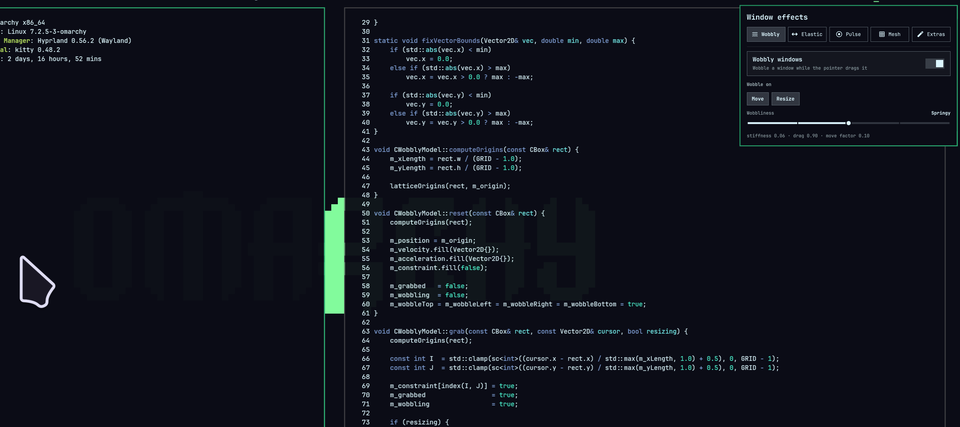
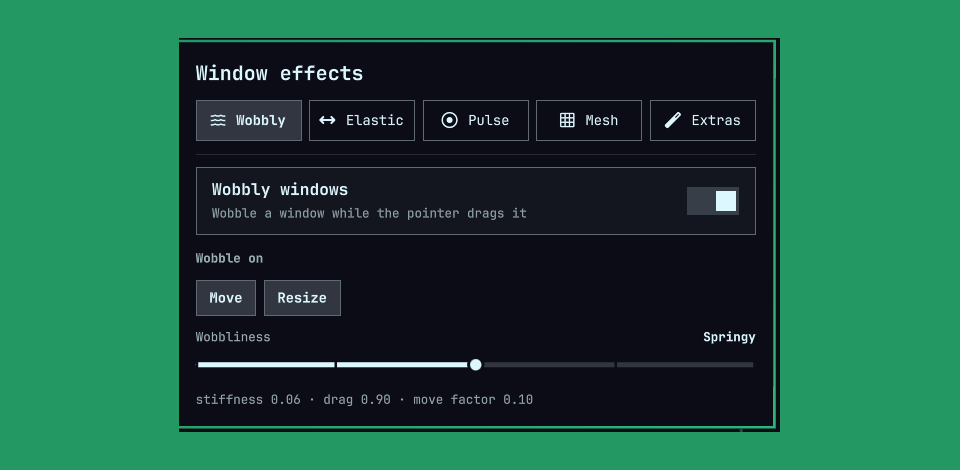
A recording in the README, the panel as the listing preview
docs/demo.gif is a 35-second take at 1280 px and 15 fps: windows stretching
as the layout swaps them, a wobbly drag, and the cursor growing under a
shake. Just under the size GitHub renders inline. The marketplace preview
goes back to the settings panel, at 1:1 on a 960 px canvas.

diff --git a/README.md b/README.md
@@ -20,9 +20,9 @@ plugin. Three of them so far, all built on the same deformable mesh:
 And one extra that is not a window effect: **shake to find the cursor** —
 shake the pointer and it grows until you stop, as in KDE Plasma.
 
-![A window's edge bowing mid-swap, the cursor magnified by a shake, and the settings panel](preview.png)
+![Windows stretching as the layout swaps them, a window wobbling under a drag, and the cursor growing under a shake](docs/demo.gif)
 
-*Caught mid-swap: the right window's edge still bowing from the elastic move, the cursor three times its size after a shake, and the panel that drives it all.*
+*Elastic swaps, a wobbly drag, and shake-to-find, in one take.*
 
 ## Why the effects are a Hyprland plugin, not an Omarchy shell plugin
 
